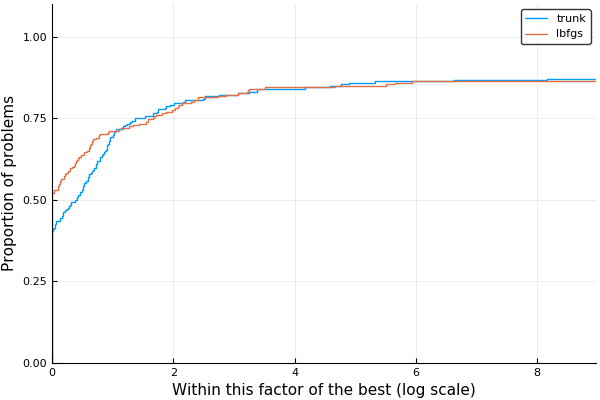
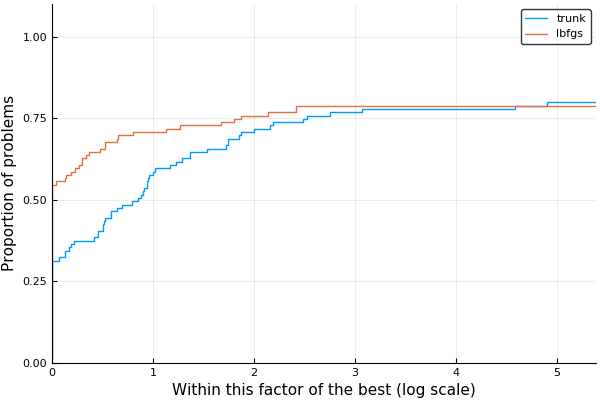
Update

diff --git a/body.tex b/body.tex
@@ -9,8 +9,8 @@
 \myframetop{
   \ctr{Julia Smooth Optimizers}
 
-  \begin{minipage}{0.44\textwidth}
-    \includegraphics[height=0.75\textheight]{jsologo.png}
+  \begin{minipage}{0.43\textwidth}
+    \includegraphics[width=1.0\textwidth]{jsologo.png}
   \end{minipage}
   \begin{minipage}{0.55\textwidth}
     \begin{itemize}
@@ -39,7 +39,8 @@
     \item Defines nonlinear programming models and unified API to access them;
     \item Some models provide sparse derivatives;
     \item Some models provide efficient matrix-free products (i.e. no explicit matrix
-      used).
+      used);
+    \item Creating a new model type should be easy.
   \end{itemize}
 \end{frame}
 
@@ -49,7 +50,7 @@
   # Short
   adnlp = ADNLPModel(x -> (x[1] - 1)^2 + 100 * (x[2] - x[1]^2)^2, [-1.2; 1.0])
 
-  # ROSENBR from the CUTEst list of problem
+  # ROSENBR from the CUTEst list of problem. Also uses CUTEst.jl
   ctnlp = CUTEstModel("ROSENBR")
 
   # using JuMP -> sparse Hessian
@@ -64,7 +65,7 @@
 \begin{frame}[fragile,t]
   \ctr{Unified API}
 
-\begin{minipage}{0.52\textwidth}
+\begin{minipage}{0.51\textwidth}
 \begin{lstlisting}
 for (name, nlp) in [("Autodiff", adnlp),
                     ("CUTEst", ctnlp),
@@ -131,36 +132,52 @@ function newton(nlp :: AbstractNLPModel)
     grad!(nlp, x, gx)
   end
 
-  return x, fx, gx
+  return x, fx, gx # Unified output also available in other packages
 end
+
+for nlp in [adnlp; ctnlp; mpnlp]
+  x, fx, gx = newton(nlp)
+  # ...
 \end{lstlisting}
 \end{frame}
 
 \begin{frame}[fragile,t]
   \ctr{Unified API}
-  \begin{align*}
-    \min & \quad f(x) \qquad
+  $$
+    \min \quad f(x) \qquad
     \mbox{s. to} \qquad
     \begin{array}{l}
       c_L \leq c(x) \leq c_U, \quad
       \ell \leq x \leq u
     \end{array}
-  \end{align*}
+    $$
   \begin{tabular}{|l|l|} \hline
     $f(x)$ &
       \verb+obj+ \\ \hline
     $\nabla f(x)$ &
       \verb+grad, grad!+ \\ \hline
+\ifx\undefined\widescreen
+    $\nabla^2 f(x)$ &
+      \verb+hess, hess_op, hess_op!, hess_coord, hprod+, \\
+      & \verb+hprod!+ \\ \hline
+\else
     $\nabla^2 f(x)$ &
       \verb+hess, hess_op, hess_op!, hess_coord, hprod, hprod!+ \\ \hline
+\fi
     $f(x), \nabla f(x)$ &
       \verb+objgrad, objgrad!+ \\ \hline
     $c(x)$ &
       \verb+cons, cons!+ \\ \hline
     $f(x), c(x)$ &
       \verb+objcons, objcons!+ \\ \hline
+\ifx\undefined\widescreen
+    $J(x) = \nabla c(x)$ &
+      \verb+jac, jac_op, jac_op!, jac_coord, jprod, jprod!+, \\
+      & \verb+jtprod, jtprod!+ \\ \hline
+\else
     $J(x) = \nabla c(x)$ &
       \verb+jac, jac_op, jac_op!, jac_coord, jprod, jprod!, jtprod, jtprod!+ \\ \hline
+\fi
     $\nabla_{xx}^2 L(x,y)$ &
       \verb+hess, hess_op, hess_coord, hprod, hprod!+ \\ \hline
   \end{tabular}
@@ -318,8 +335,8 @@ T = LinearOperator{Float64}(nlp.meta.ncon, nlp.meta.nvar,
     \item \verb+jac_op(nlp, x)+ returns a \verb+LinearOperator+ with \verb+jprod+ and
       \verb+jtprod+;
     \item \verb+hess_op(nlp, x)+ is similar for \verb+hprod+;
-    \item \verb+LBFGSOperator+ and \verb+InverseLBFGSOperator+ create LBFGS operators
-      that can be updated with \verb+push!(B, s, y)+;
+    %\item \verb+LBFGSOperator+ and \verb+InverseLBFGSOperator+ create LBFGS operators
+      %that can be updated with \verb+push!(B, s, y)+;
   \end{itemize}
 \end{frame}
 
@@ -357,15 +374,26 @@ y, cgls_stats = cgls(Jx', gx)
   \end{minipage}
   \begin{minipage}{0.49\textwidth}
 \begin{lstlisting}
-# B, d, radius
+# Given B, g, radius
 d, cg_stats = cg(B, -g, radius=radius)
 \end{lstlisting}
   \end{minipage}
+\ifx\undefined\widescreen
+\begin{center}
+  \foreach \x in {1, 2, 3} {
+    \only<\x>{
+      \includegraphics[width=0.5\textheight]{src/krylov\x.png}
+    }
+
+  }
+\end{center}
+\else
 \begin{center}
   \includegraphics[width=0.3\textwidth]{src/krylov1.png}
   \includegraphics[width=0.3\textwidth]{src/krylov2.png}
   \includegraphics[width=0.3\textwidth]{src/krylov3.png}
 \end{center}
+\fi
 \end{frame}
 
 \begin{frame}[fragile,t]
@@ -380,7 +408,9 @@ push!(B, s, y)
 push!(H, s, y)
 
 v = ones(n)
-cg(B, v)[1] - H * v
+x, _ = cg(B, v)
+Hv = H * v
+x - Hv # Almost zero
 \end{lstlisting}
 \end{frame}
 
@@ -396,7 +426,7 @@ cg(B, v)[1] - H * v
     \item Tools for benchmarking (together with BenchmarkProfiles);
   \end{itemize}
 \begin{lstlisting}
-pnames = CUTEst.select(max_var=10_000, contype=:unc)
+pnames = CUTEst.select(min_var=100, max_var=10_000, contype=:unc)
 problems = (CUTEstModel(p) for p in pnames)
 solvers = Dict{Symbol,Function}(:lbfgs => lbfgs, :trunk => trunk)
 bmark_args = Dict(:max_f => 10_000, :max_time => 30.0)
@@ -436,7 +466,7 @@ end
   \ctr{Optimize vs. Optim}
 \begin{lstlisting}
 solvers = Dict{Symbol,Function}(:Optim => optim_method, :Optimize => lbfgs)
-pnames = sort(CUTEst.select(max_var=1000, contype=:unc))
+pnames = sort(CUTEst.select(min_var=100, max_var=10_000, contype=:unc))
 bmark_args = Dict(:atol => 1e-8, rtol => 0.0, :max_f => 10_000, :max_time => 30.0)
 
 problems = (CUTEstModel(p) for p in pnames)
@@ -479,6 +509,7 @@ png(p, "vs-optim-time")
 \myframe{
   \ctr{Future Work}
   \begin{itemize}
+    \item NLSCON: Constrained Nonlinear Least Squares Solver
     \item Code updates: Julia 0.7/1.0, MOI interface, and type stability;
     \item General constraints solver and stable version of Optimize;
     \item Parameter optimization;

diff --git a/main.tex b/main.tex
@@ -82,20 +82,6 @@
     \bf \LARGE \thanksmsg
   \end{beamercolorbox}
   \hfill{}
-
-  \begin{center}
-    \includegraphics[scale=0.3]{cc-by-sa/cc.png} \qquad
-    \includegraphics[scale=0.3]{cc-by-sa/by.png} \qquad
-    \includegraphics[scale=0.3]{cc-by-sa/sa.png}
-
-  \ifpt{
-    Esta apresentação está licenciada com uma Licença Creative Commons
-    Atribuição-CompartilhaIgual 4.0 Internacional.
-  }\else{
-    This presentation is licensed under the Creative Commons Attributions-ShareAlike 4.0
-    International License.
-  }\fi
-  \end{center}
 }
 
 \end{document}
